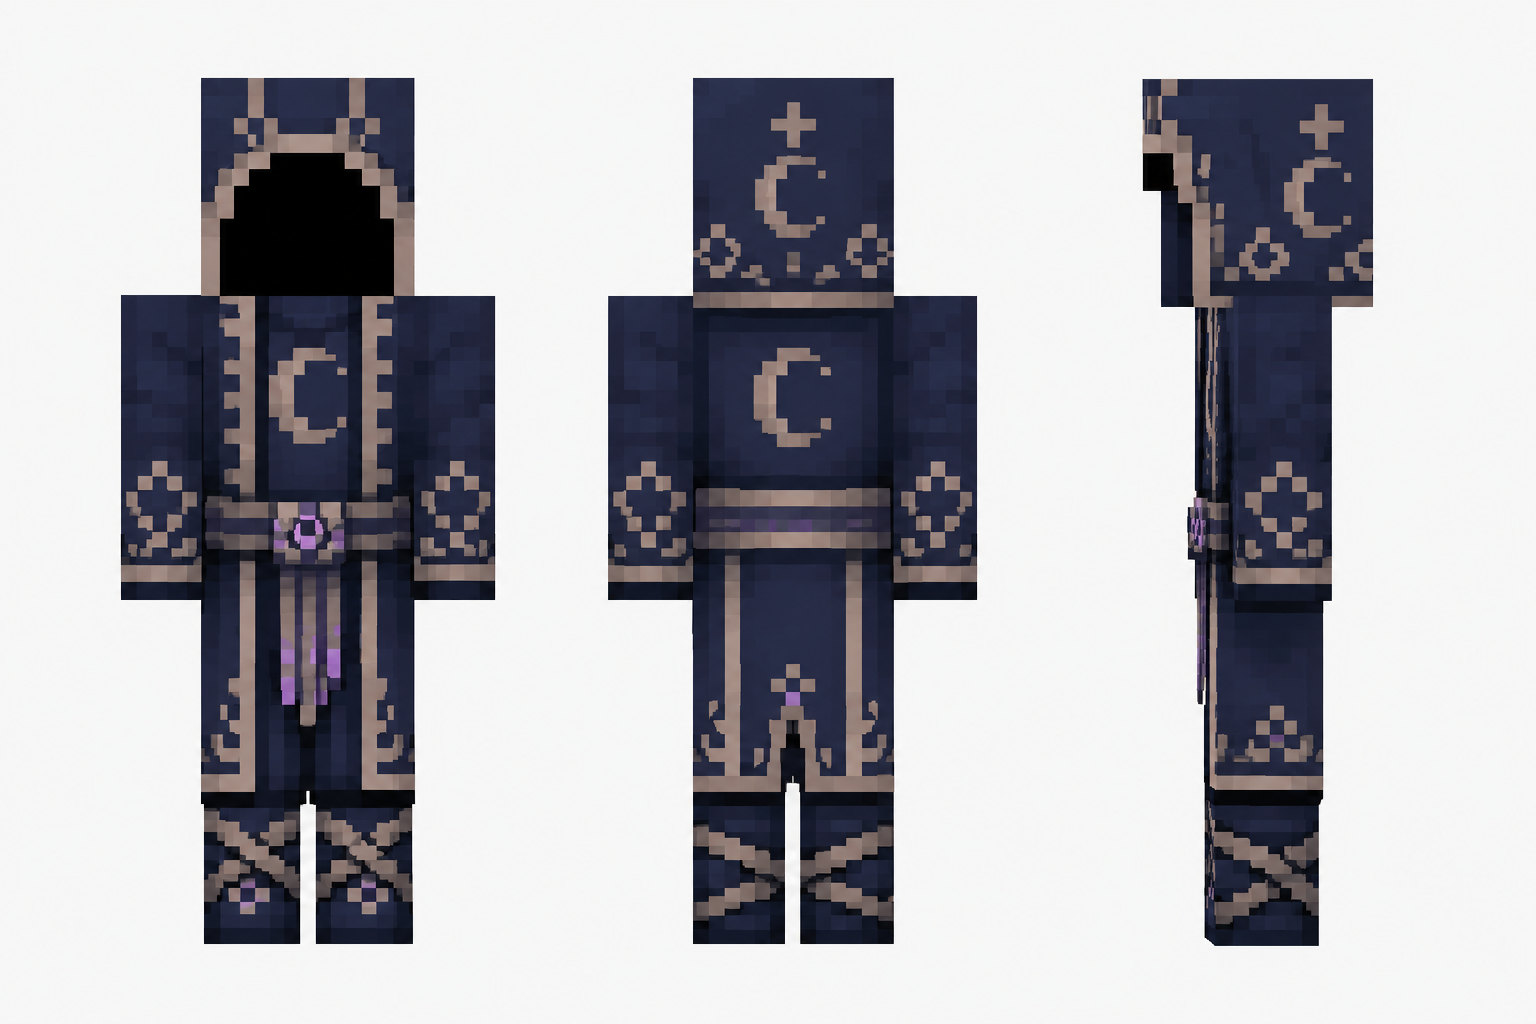
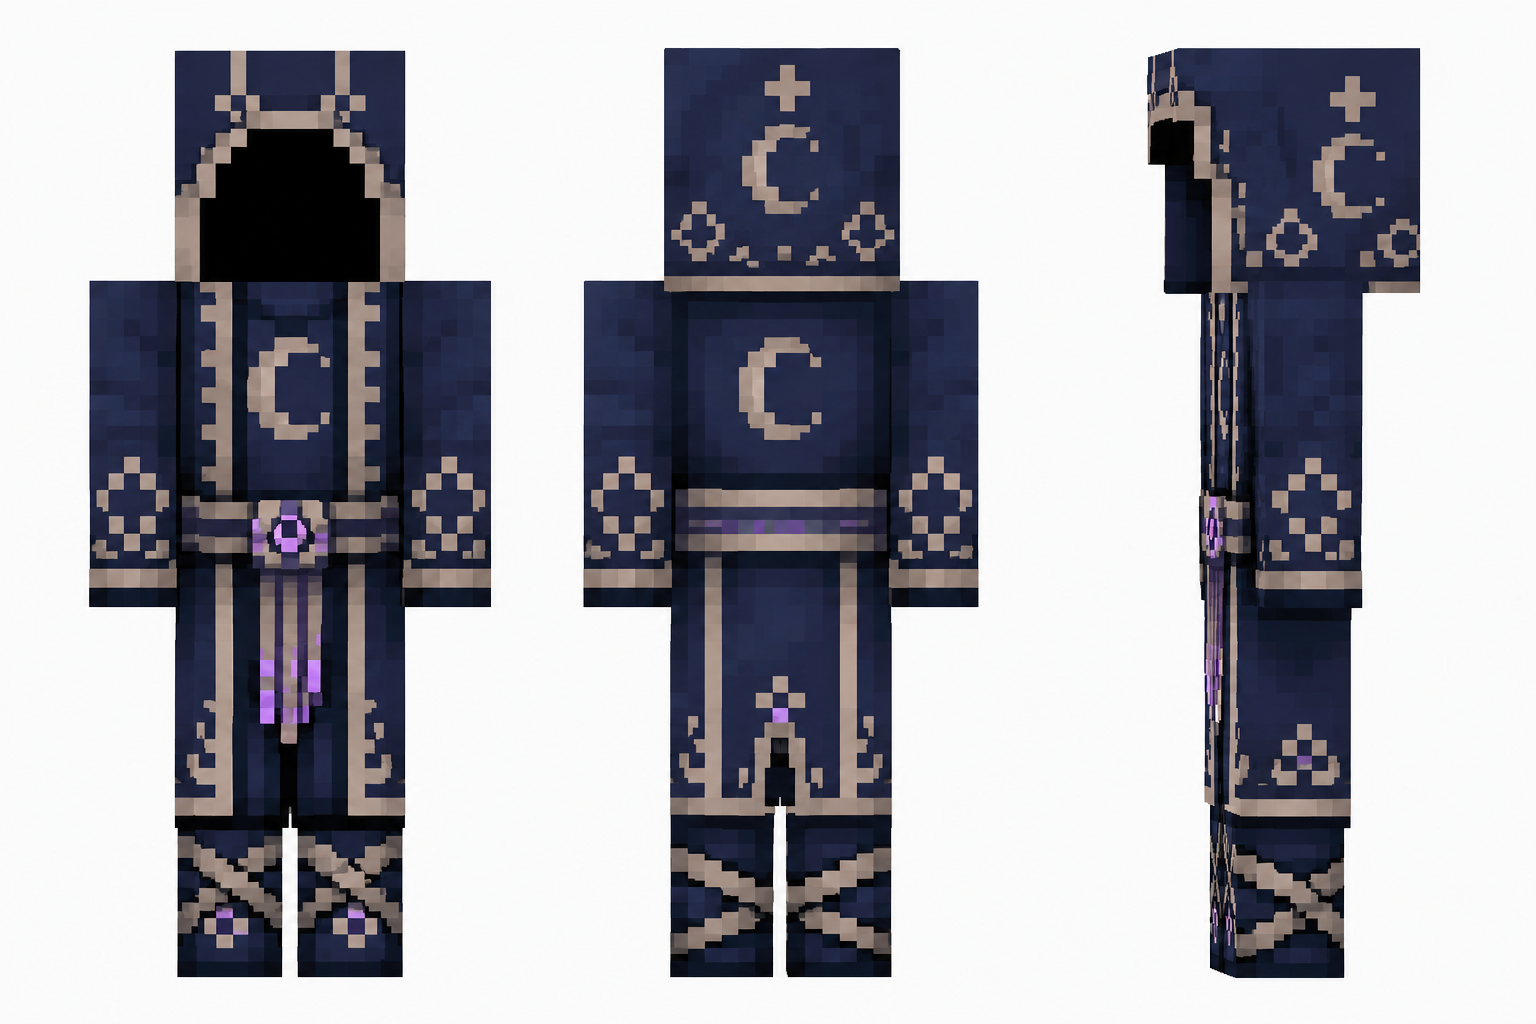
art(rp2): match worn armor to 4x item density

diff --git a/scripts/generate_equipment_rp2_art_bible.py b/scripts/generate_equipment_rp2_art_bible.py
@@ -22,8 +22,8 @@ GLOBAL_POLICY: dict[str, Any] = {
     "style": "Minecraft-native MMORPG",
     "inventory_texture_resolution": [64, 64],
     "inventory_logical_pixel_density": [32, 32],
-    "worn_texture_resolution": [128, 64],
-    "pixel_density_philosophy": "Author inventory art on a 32x logical grid and nearest-neighbour upscale to 64x; worn art keeps the fixed 1.21.11 64x32 UV coordinate grid at 2x texture sampling (128x64).",
+    "worn_texture_resolution": [256, 128],
+    "pixel_density_philosophy": "Inventory art is 4x the vanilla 16x16 item grid at 64x64; worn art keeps the fixed 1.21.11 64x32 UV coordinate grid at the same 4x texture sampling density (256x128).",
     "shading_philosophy": "Four-to-six authored value steps, hard pixel clusters, no smooth PBR gradients or single-pixel confetti noise.",
     "value_contrast": "Family construction must remain readable in grayscale; reserve the brightest value for material edges or one focal motif.",
     "saturation": "Most surfaces stay low-to-medium saturation; one controlled line accent may be saturated.",
@@ -265,7 +265,7 @@ Generated from production-derived gear-line and armor-matrix authority. The JSON
 
 - Style: Minecraft-native MMORPG.
 - Inventory: 64×64 physical texture, authored on a 32×32 logical pixel grid.
-- Worn: Minecraft 1.21.11 fixed 64×32 humanoid equipment UV coordinate grid, sampled at 2× as 128×64 runtime textures.
+- Worn: Minecraft 1.21.11 fixed 64×32 humanoid equipment UV coordinate grid, sampled at the same 4× density as inventory art, producing 256×128 runtime textures.
 - Material/construction and silhouette must communicate family before palette.
 - Emissive levels are 0–3 and are reserved; the pilot introduces no emissive/shader dependency.
 - Higher progression means more sophisticated construction and motif integration, not automatic gold, glow or visual noise.

diff --git a/scripts/validate_equipment_rp2_pilot.py b/scripts/validate_equipment_rp2_pilot.py
@@ -22,6 +22,7 @@ ARMOR = DOCS / "equipment-rp2-armor-matrix.json"
 FINAL = DOCS / "equipment-rp2-final-authority.json"
 CONFIG = ROOT / "src/main/resources/config/equipment-catalog-expansion.yml"
 REPORT_DIR = ROOT / "build/reports/equipment-rp2-b"
+EXPECTED_WORN_SIZE = (256, 128)
 
 
 def load(path: Path) -> dict[str, Any]:
@@ -61,6 +62,11 @@ def alpha_values(image: Image.Image, box: tuple[int, int, int, int]) -> list[int
 def validate_worn_uv_layout(path: Path, leggings: bool, errors: list[str]) -> None:
     image = Image.open(path).convert("RGBA")
     scale = image.width // 64
+    if image.size != EXPECTED_WORN_SIZE or scale != 4 or image.height != 32 * scale:
+        errors.append(
+            f"worn/inventory 4x density parity failed {path.relative_to(ROOT)}: "
+            f"{image.size} scale={scale} expected={EXPECTED_WORN_SIZE} scale=4")
+        return
     head = [(8, 0, 16, 8), (16, 0, 24, 8), (0, 8, 8, 16),
             (8, 8, 16, 16), (16, 8, 24, 16), (24, 8, 32, 16)]
     body = [(20, 16, 28, 20), (28, 16, 36, 20), (16, 20, 20, 32),
@@ -173,7 +179,7 @@ def main() -> None:
                 errors.append(f"missing pilot worn texture: {path_name}")
         validate_png(ROOT / piece["inventory_texture"], (64, 64), errors)
         for path_name in piece["worn_textures"]:
-            validate_png(ROOT / path_name, (128, 64), errors)
+            validate_png(ROOT / path_name, EXPECTED_WORN_SIZE, errors)
             if path_name not in validated_worn:
                 validate_worn_uv_layout(ROOT / path_name,
                                         "/humanoid_leggings/" in path_name, errors)

diff --git a/scripts/generate_equipment_rp2_pilot.py b/scripts/generate_equipment_rp2_pilot.py
@@ -21,7 +21,9 @@ MANIFEST = ROOT / "docs/development/equipment-rp2-pilot-manifest.json"
 EVIDENCE = Path("docs/development/equipment-rp2-render-evidence")
 AUTHORED_SOURCES = Path("docs/development/equipment-rp2-authored-sources")
 SLOT_ORDER = {"HEAD": 0, "CHEST": 1, "LEGS": 2, "FEET": 3}
-WORN_TEXTURE_SCALE = 2
+# Inventory art is 4x the vanilla 16x16 item grid; worn art must retain the same
+# sampling density on the fixed vanilla 64x32 equipment UV coordinate grid.
+WORN_TEXTURE_SCALE = 4
 
 
 def json_bytes(value: Any, pretty: bool = True) -> bytes:

diff --git a/docs/RESOURCE_PACK_CMD.md b/docs/RESOURCE_PACK_CMD.md
@@ -50,7 +50,7 @@ A `WearablePresentation` a központi bővítési pont. A stabil `<render-id>` le
 
 Az RP2-B Art Bible machine-readable authorityja a `docs/development/equipment-rp2-art-bible.json`; a kiválasztott négy line és 16 piece egyetlen asset-state authorityja az `equipment-rp2-pilot-manifest.json`. A generált `equipment-rp2-pilot.properties` csak immutable runtime index, kézzel nem szerkeszthető. Exact manifest-pár esetén custom item/equipment asset aktiválódik; minden más canonical armor fail-closed vanilla worn fallback marad.
 
-A pilot végleges vizuális source-of-truthja line-onként két committed, built-in OpenAI imagegennel authored lap az `equipment-rp2-authored-sources/` könyvtárban: egy négy-slot inventory sheet és egy front/back/side worn turnaround. A generátor ezeket pixel-cleanup, bináris alfa, palettakorlátozás és a vanilla 64×32 UV-koordinátarács 2× mintavételezése után 128×64-es runtime PNG-vé alakítja. Az imagegen nem runtime dependency; a committed source és a belőle determinisztikusan előálló PNG-k az authorityk.
+A pilot végleges vizuális source-of-truthja line-onként két committed, built-in OpenAI imagegennel authored lap az `equipment-rp2-authored-sources/` könyvtárban: egy négy-slot inventory sheet és egy front/back/side worn turnaround. A generátor ezeket pixel-cleanup, bináris alfa, palettakorlátozás és a vanilla 64×32 UV-koordinátarács inventoryval egyező 4× mintavételezése után 256×128-as runtime PNG-vé alakítja. Az imagegen nem runtime dependency; a committed source és a belőle determinisztikusan előálló PNG-k az authorityk.
 
 Az alkalmazott promptkészlet és a family-specifikus negatív korlátok az `equipment-rp2-imagegen-prompts.md` authoring recordban találhatók.
 
@@ -155,7 +155,7 @@ keresztül kerül a klienshez.
 ## Technikai tudnivalók
 
 - **Inventory-item mérete:** 64×64 px, átlátszó háttérrel (PNG). Ez a pack egységes item-sprite felbontása.
-- **Viselt equipment UV:** a humanoid, leggings és wings alap-koordinátarácsa 64×32; egész számú, azonos oldalarányú mintavételezés megengedett. Az RP2 pilot humanoid/leggings layerje 128×64 px. Horse body és saddle layer 64×64 px. Ezek rögzített vanilla UV-lapok, nem szabad őket inventory-ikonként elforgatni vagy eltolni.
+- **Viselt equipment UV:** a humanoid, leggings és wings alap-koordinátarácsa 64×32; egész számú, azonos oldalarányú mintavételezés megengedett. Az RP2 pilot humanoid/leggings layerje 256×128 px, vagyis ugyanazt a 4× pixelsűrűséget használja, mint a vanilla 16×16-ról 64×64-re növelt inventory art. Horse body és saddle layer 64×64 px. Ezek rögzített vanilla UV-lapok, nem szabad őket inventory-ikonként elforgatni vagy eltolni.
 - **Fájlnév és hely:** a kész PNG az `assets/icesmp/textures/item/<modell-id>.png` útvonalra kerül; a JSON-bekötés kész, csak a PNG-t kell szállítani.
 - **Alap-item:** a vanilla tárgy, aminek a helyén az item megjelenik — a vanilla textúrája jó kiindulás a sziluetthez/érzethez.
 - **Frakció-színvilág:** RED = Perinfernicitas (láng, vörös-arany), BLUE = Cryghaliris (jég, kék-ezüst), NEUTRAL = Ryanora/Caldestera (kereskedő-arany, zöld-okker), DARK = Kitaszítottak (csont, éjfekete-lila, és a jellegzetes **hideg türkiz derengés** — a lich-szem: a Néma Királyné élőhalott-fénye a szemekben, rúnákban, élek mentén).

diff --git a/docs/development/equipment-rp2-imagegen-prompts.md b/docs/development/equipment-rp2-imagegen-prompts.md
@@ -8,9 +8,9 @@ Shared worn constraints: three equal-scale Minecraft-proportioned views in FRONT
 
 ### UV-fidelity revision
 
-The four worn sheets were regenerated after the first offline render showed that concept-scale details did not survive the vanilla atlas. The replacement prompts explicitly require flush vanilla player boxes, separated limbs, orthographic alignment and motifs readable at the canonical face budgets. Runtime textures retain the vanilla 64×32 UV coordinate grid at 2× sampling (128×64), so a face receives 16×16 / 16×24 / 8×24 texels without changing model geometry. Protruding geometry is forbidden.
+The four worn sheets were regenerated after the first offline render showed that concept-scale details did not survive the vanilla atlas. The latest replacement pass preserves the existing four identities but authors meaningful detail for the inventory-matched 4× face budgets. Runtime textures retain the vanilla 64×32 UV coordinate grid at 4× sampling (256×128), so a head/torso/arm/leg face receives 32×32 / 32×48 / 16×48 / 16×48 texels without changing model geometry. Protruding geometry is forbidden.
 
-Shared replacement prompt core: redesign the attached line reference as a strict Minecraft Java 1.21.11 vanilla-humanoid worn set; exactly FRONT, BACK and RIGHT SIDE orthographic views at one scale and baseline; rigid neutral pose; only rectangular head/body/arm/leg boxes; deliberately low-resolution Minecraft pixel art with large clusters and hard edges; preserve the named line motifs at the real 8×8 / 8×12 / 4×12 / 4×12 face budgets; no external geometry, perspective, overlapping limbs, labels, watermark, cast shadow or details that cannot survive the final atlas.
+Shared replacement prompt core: re-author the attached line reference as a strict Minecraft Java 1.21.11 vanilla-humanoid worn set for a 256×128 runtime atlas; exactly FRONT, BACK and RIGHT SIDE orthographic views at one scale and baseline; rigid neutral pose; only rectangular head/body/arm/leg boxes; deliberately authored Minecraft pixel clusters with hard edges; preserve the named line motifs at the effective 32×32 / 32×48 / 16×48 / 16×48 4× face budgets; no external geometry, perspective, overlapping limbs, labels, watermark, cast shadow or details that cannot survive the final atlas.
 
 ### Client UV correction reference
 
@@ -48,4 +48,4 @@ Worn replacement specifics: closed helmet with bold brow and narrow dark visor; 
 
 ## Deterministic handoff
 
-Every source path, authoring mode and SHA-256 digest is stored in `equipment-rp2-pilot-manifest.json`. Missing or changed source sheets fail validation. Runtime production does not require imagegen: committed 64×64 inventory and 128×64 worn PNGs remain the client authority.
+Every source path, authoring mode and SHA-256 digest is stored in `equipment-rp2-pilot-manifest.json`. Missing or changed source sheets fail validation. Runtime production does not require imagegen: committed 64×64 inventory and 256×128 worn PNGs remain the client authority.

diff --git a/resource-pack/README.md b/resource-pack/README.md
@@ -58,7 +58,7 @@ same-render-id fallbackeket. Hiányzó asset vagy texture publikálási hibát o
 CI-ellenőrzésre; a `vas_lopancel` equipment JSON törlése nem tud csendben átcsúszni.
 
 A viselt textúrák nem inventory-sprite-ok: a vanilla modell rögzített UV-kiosztását követik.
-A humanoid, leggings és wings rétegek 64×32-es alap-UV-t használnak; azonos oldalarányú egész mintavételezés megengedett, az RP2 pilot 128×64-es. A horse body/saddle rétegek 64×64-esek. Egy
+A humanoid, leggings és wings rétegek 64×32-es alap-UV-t használnak; azonos oldalarányú egész mintavételezés megengedett. Az RP2 pilot az inventory 4× pixelsűrűségével egyező 256×128-as humanoid/leggings textúrákat használ. A horse body/saddle rétegek 64×64-esek. Egy
 slot textúrája csak a hozzá tartozó UV-szigeteket festheti, különben a minta más testrészeken is
 megjelenik vagy elfordul. A repositoryban lévő determinisztikus generátor és audit használata:
 

diff --git a/docs/development/equipment-rp2-art-bible.md b/docs/development/equipment-rp2-art-bible.md
@@ -6,7 +6,7 @@ Generated from production-derived gear-line and armor-matrix authority. The JSON
 
 - Style: Minecraft-native MMORPG.
 - Inventory: 64×64 physical texture, authored on a 32×32 logical pixel grid.
-- Worn: Minecraft 1.21.11 fixed 64×32 humanoid equipment UV coordinate grid, sampled at 2× as 128×64 runtime textures.
+- Worn: Minecraft 1.21.11 fixed 64×32 humanoid equipment UV coordinate grid, sampled at the same 4× density as inventory art, producing 256×128 runtime textures.
 - Material/construction and silhouette must communicate family before palette.
 - Emissive levels are 0–3 and are reserved; the pilot introduces no emissive/shader dependency.
 - Higher progression means more sophisticated construction and motif integration, not automatic gold, glow or visual noise.
